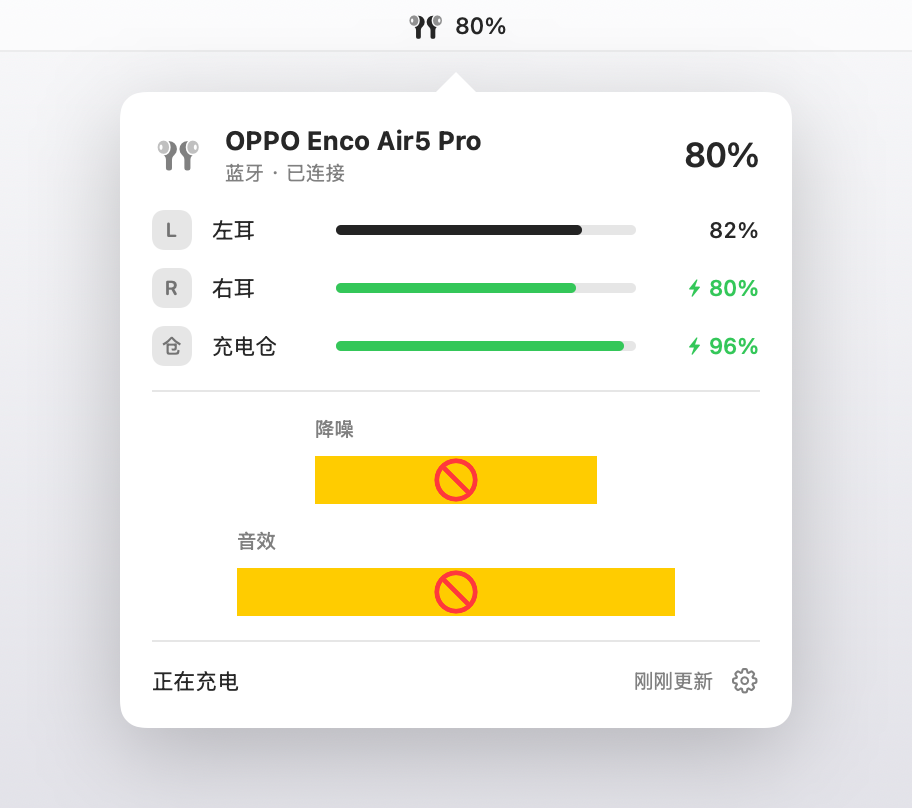
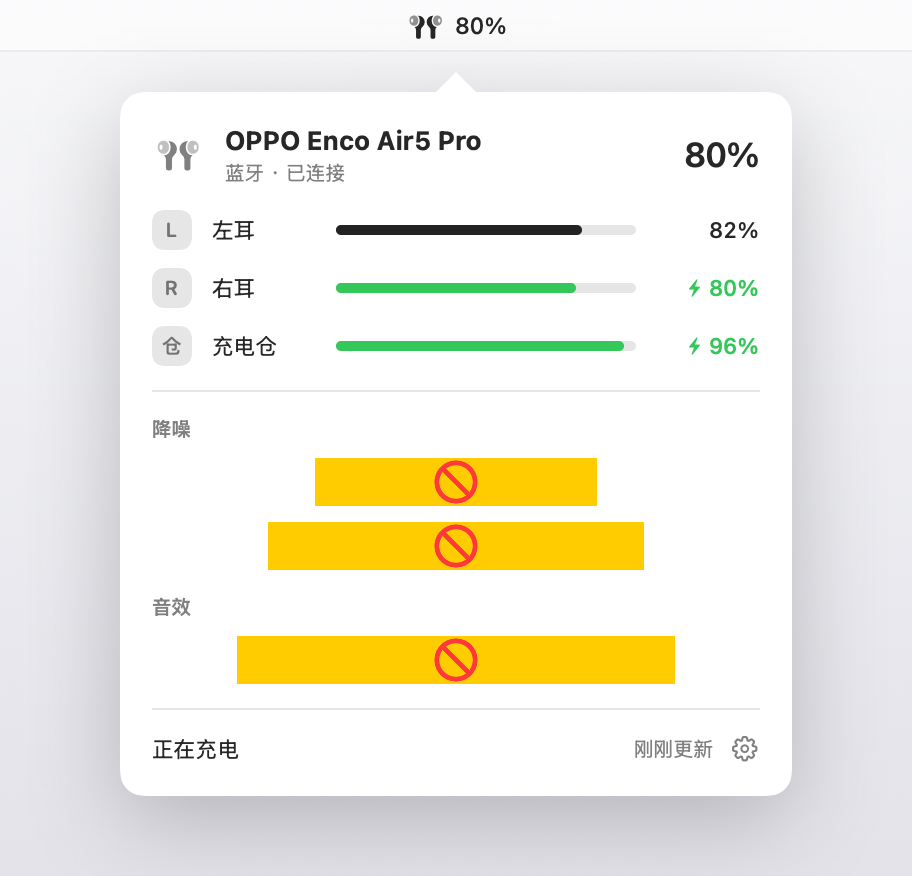
fix: 降噪/音效左对齐且全宽；强度行常驻（非降噪时置灰）；节标题加重

diff --git a/EncoBattery.swift b/EncoBattery.swift
@@ -436,6 +436,7 @@ private struct SegmentedRow<Value: Hashable>: View {
         }
         .pickerStyle(.segmented)
         .labelsHidden()
+        .frame(maxWidth: .infinity)
         .disabled(disabled)
         .accessibilityLabel(label)
     }
@@ -459,7 +460,7 @@ private struct BatteryPopover: View {
     private var controlsDisabled: Bool { !model.online }
 
     var body: some View {
-        VStack(spacing: 12) {
+        VStack(alignment: .leading, spacing: 12) {
             header
             VStack(spacing: 9) {
                 LevelRow(badge: "L", title: "左耳", level: model.left, charging: model.leftCharging)
@@ -510,10 +511,10 @@ private struct BatteryPopover: View {
     }
 
     private var noiseSection: some View {
-        VStack(alignment: .leading, spacing: 7) {
+        VStack(alignment: .leading, spacing: 8) {
             HStack(spacing: 6) {
                 Text("降噪")
-                    .font(.caption.weight(.medium))
+                    .font(.caption.weight(.semibold))
                     .foregroundStyle(.secondary)
                 if model.pendingNoise { ProgressView().controlSize(.mini) }
             }
@@ -525,24 +526,23 @@ private struct BatteryPopover: View {
             ) { mode in
                 onSetNoise?(mode, nil)
             }
-            if model.noiseMode == .noise {
-                SegmentedRow(
-                    label: "降噪强度",
-                    options: ANCLevel.allCases.map { ($0, $0.label) },
-                    selection: model.noiseLevel,
-                    disabled: controlsDisabled || model.pendingNoise
-                ) { level in
-                    onSetNoise?(.noise, level)
-                }
+            SegmentedRow(
+                label: "降噪强度",
+                options: ANCLevel.allCases.map { ($0, $0.label) },
+                selection: model.noiseLevel,
+                disabled: controlsDisabled || model.pendingNoise || model.noiseMode != .noise
+            ) { level in
+                onSetNoise?(.noise, level)
             }
         }
+        .frame(maxWidth: .infinity, alignment: .leading)
     }
 
     private var eqSection: some View {
-        VStack(alignment: .leading, spacing: 7) {
+        VStack(alignment: .leading, spacing: 8) {
             HStack(spacing: 6) {
                 Text("音效")
-                    .font(.caption.weight(.medium))
+                    .font(.caption.weight(.semibold))
                     .foregroundStyle(.secondary)
                 if model.pendingEQ { ProgressView().controlSize(.mini) }
             }
@@ -555,6 +555,7 @@ private struct BatteryPopover: View {
                 onSetEQ?(preset)
             }
         }
+        .frame(maxWidth: .infinity, alignment: .leading)
     }
 
     private var statusRow: some View {
